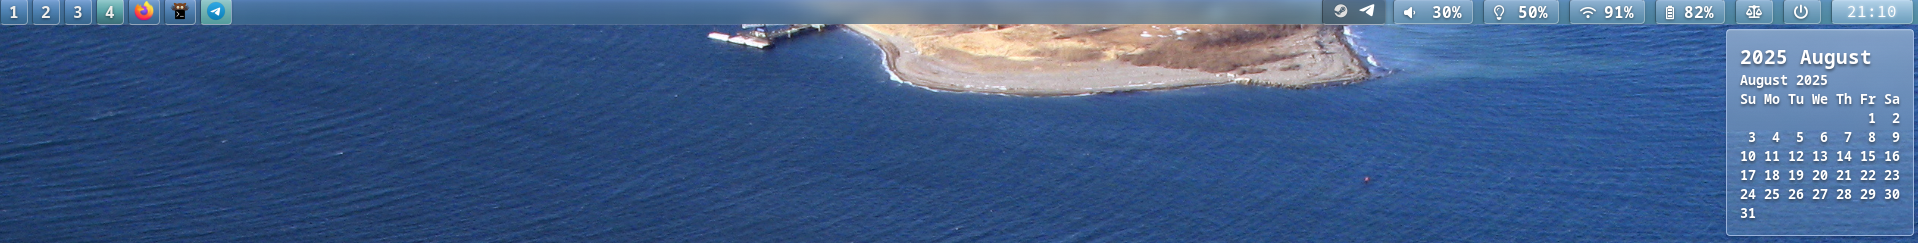
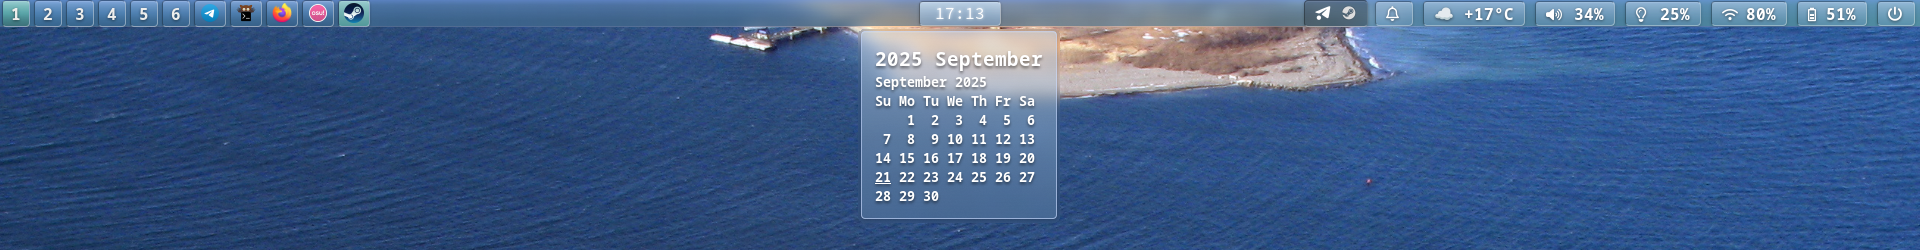
Battery bug fixed, stuff changed and more stuff added

diff --git a/waybar/style.css b/waybar/style.css
@@ -163,7 +163,12 @@ window#waybar.empty #window {
 #idle_inhibitor,
 #power-profiles-daemon,
 #window,
-#custom-power {
+#custom-power,
+#custom-reboot,
+#custom-sleep,
+#custom-lock,
+#custom-notification,
+#custom-weather {
     background: linear-gradient(
         to bottom,
         @default1 0%,
@@ -184,6 +189,7 @@ window#waybar.empty #window {
     transition: all 0.2s ease;
 }
 
+#battery,
 #battery.charging.great,
 #battery.charging.full {
     background: linear-gradient(
@@ -290,7 +296,7 @@ window#waybar.empty #window {
     transition: all 0.2s ease;
 }
 
-#battery.charging.full:hover, #battery.charging.great:hover {
+#battery:hover, #battery.charging.full:hover, #battery.charging.great:hover {
     background: linear-gradient(
         to bottom,
         @full-hover1 0%,
@@ -329,10 +335,15 @@ window#waybar.empty #window {
 #backlight:hover,
 #temperature:hover,
 #custom-media:hover,
-#tray:hover,
 #power-profiles-daemon:hover,
 #window:hover,
-#custom-power:hover {
+#custom-power:hover,
+#custom-reboot:hover,
+#custom-sleep:hover,
+#custom-lock:hover,
+#custom-notification:hover,
+#custom-weather:hover
+{
     background: linear-gradient(
         to bottom,
         @default-hover1 0%,
